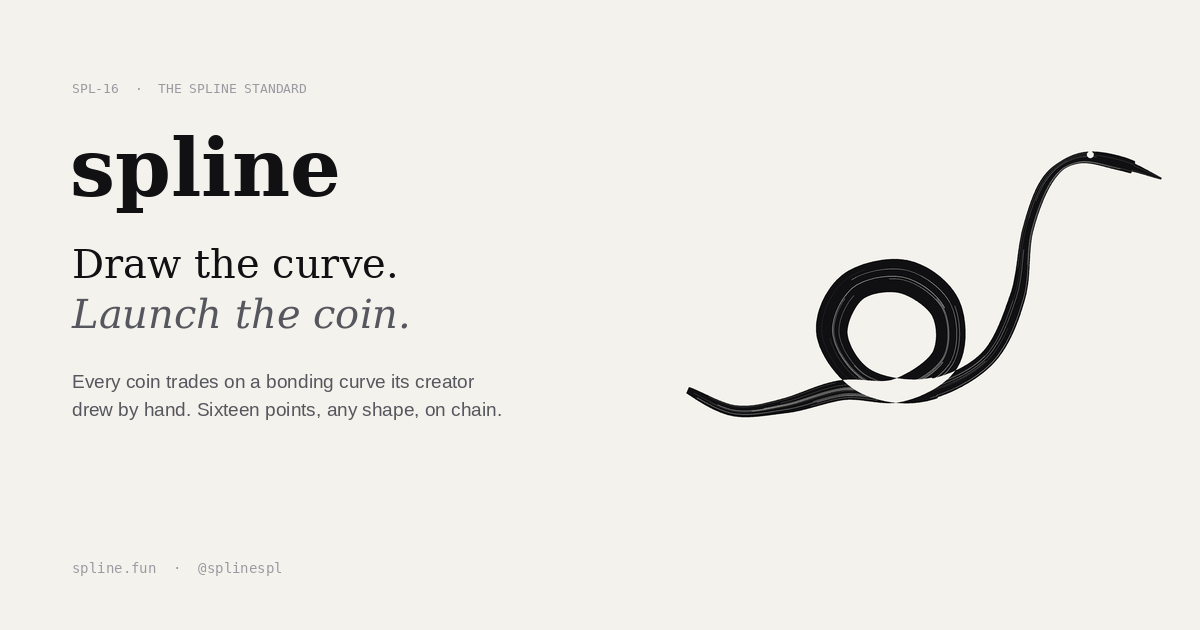
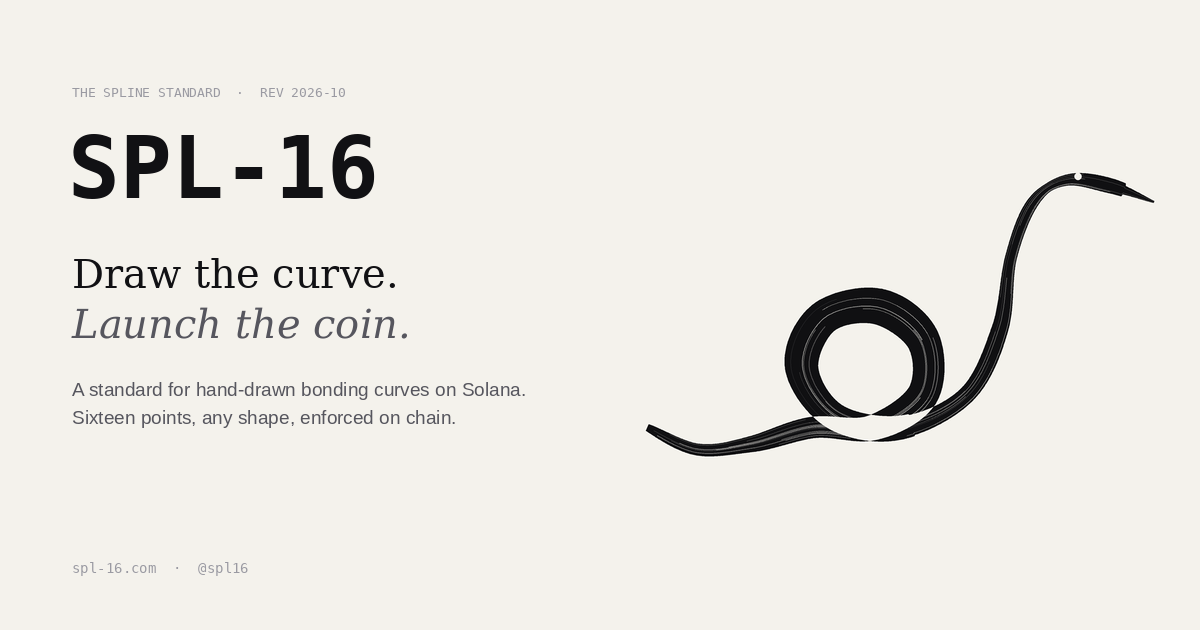
Brand: SPL-16 as the name, spl-16.com, @spl16; mono wordmark; new OG
Claude-Session: https://claude.ai/code/session_01EpuTyT8Z4FY5SazNNXN4oC

diff --git a/public/app.js b/public/app.js
@@ -35,9 +35,9 @@ function home() {
   app.innerHTML = `<div class="wrap">
   <section class="hero">
     <div>
-      <span class="std">SPL-16 · THE SPLINE STANDARD</span>
+      <span class="std">THE SPLINE STANDARD · REV 2026-10</span>
       <h1>Draw the curve.<br><em>Launch the coin.</em></h1>
-      <p>Every coin here trades on a bonding curve its creator drew by hand. Up to sixteen price points, any shape — written into the pool config on Meteora and enforced on chain from the first buy.</p>
+      <p>SPL-16 is a standard for hand-drawn bonding curves. Every coin here trades on a curve its creator drew. Up to sixteen price points, any shape — written into the pool config on Meteora and enforced on chain from the first buy.</p>
       <div class="cta"><a class="btn pri big" href="/lab"><i data-lucide="pen-tool"></i>Draw a coin</a><a class="btn big" href="/standard">Read the standard</a></div>
     </div>
     <div class="art"><svg viewBox="0 0 1000 561"><use href="#swan"/></svg><span class="cap">one line · sixteen points · on chain</span></div>
@@ -238,11 +238,11 @@ function standard() {
   <table><tr><th>field</th><th>value</th></tr><tr><td>total supply</td><td>1,000,000,000 · 6 decimals</td></tr><tr><td>quote</td><td>SOL</td></tr><tr><td>launch mcap (bottom of canvas)</td><td>${S.config.startMcapSol} SOL</td></tr><tr><td>ceiling mcap (top of canvas)</td><td>${S.config.maxMcapSol} SOL</td></tr><tr><td>migration</td><td>Meteora DAMM v2, liquidity permanently locked</td></tr><tr><td>mint authority</td><td>revoked at creation</td></tr><tr><td>metadata update authority</td><td>none — spline does not mutate</td></tr></table>
   <h2>4. Sniper tax (optional)</h2><p>A coin may launch with a buy-fee schedule: <code>${S.config.maxTaxBps / 100}%</code> at creation decaying to <code>1%</code> over <code>${S.config.taxSeconds}</code> seconds, using the DBC exponential fee scheduler. The decay shape is chosen by the creator. Fees collected are split between the creator and spline per the config and can only decrease over time — the scheduler cannot raise a fee.</p>
   <h2>5. Fees</h2><p>Trading fees on every curve are collected in SOL. The creator receives 50% of fees as the pool creator; spline receives 50% as the config partner. Both claim directly from the pool; spline never holds creator funds.</p>
-  <h2>6. Identity</h2><p>An SPL-16 token's image is its own curve rendered as a single stroke. The sixteen heights are stored in the token's metadata attributes, so any client can redraw the curve from the token alone.</p>
+  <h2>6. Identity</h2><p>An SPL-16 token's image is its own curve rendered as a single stroke. The sixteen heights are stored in the token's metadata attributes, so any client can redraw the curve from the token alone. The reference implementation lives at spl-16.com.</p>
   <h2>7. What this is not</h2><p>It is not a new token program. SPL-16 tokens are ordinary SPL tokens and trade anywhere. It is not a promise about price: the curve fixes what each buyer pays on the way up, not where the market goes after graduation.</p>
   </div>`;
 }
-function notFound() { app.innerHTML = `<div class="wrap"><div class="card empty"><b>Nothing here.</b><a href="/">Back to spline</a></div></div>`; }
+function notFound() { app.innerHTML = `<div class="wrap"><div class="card empty"><b>Nothing here.</b><a href="/">Back to SPL-16</a></div></div>`; }
 
 // ---------- router ----------
 async function render() {

diff --git a/public/index.html b/public/index.html
@@ -3,13 +3,13 @@
 <head>
 <meta charset="utf-8" />
 <meta name="viewport" content="width=device-width, initial-scale=1" />
-<title>spline — draw the curve, launch the coin</title>
+<title>SPL-16 — draw the curve, launch the coin</title>
 <meta name="description" content="SPL-16, the Spline Standard. Hand-drawn bonding curves on Solana: draw up to 16 price points and launch a coin that trades on exactly that shape." />
-<meta property="og:title" content="spline · SPL-16" />
+<meta property="og:title" content="SPL-16 · the Spline Standard" />
 <meta property="og:description" content="Draw the curve. Launch the coin. A new standard for hand-drawn bonding curves on Solana." />
 <meta property="og:image" content="/og.png" />
 <meta name="twitter:card" content="summary_large_image" />
-<meta name="twitter:site" content="@splinespl" />
+<meta name="twitter:site" content="@spl16" />
 <link rel="icon" type="image/png" sizes="64x64" href="/favicon.png" />
 <link rel="icon" type="image/png" sizes="192x192" href="/icon-192.png" />
 <link rel="apple-touch-icon" href="/icon-192.png" />
@@ -19,19 +19,19 @@
 </head>
 <body>
 <header class="top">
-  <a class="wm" href="/"><span class="mark" id="mark"></span>spline</a>
+  <a class="wm" href="/"><span class="mark" id="mark"></span>SPL-16</a>
   <nav class="nav"><a href="/coins" data-r="/coins"><i data-lucide="coins"></i>Coins</a><a href="/lab" data-r="/lab"><i data-lucide="pen-tool"></i>Lab</a><a href="/standard" data-r="/standard"><i data-lucide="file-badge"></i>Standard</a></nav>
   <div class="r">
-    <span class="std">SPL-16</span>
-    <a class="xl" id="xlink" href="https://x.com/splinespl" target="_blank" rel="noreferrer">@splinespl</a>
+    <span class="std">SPLINE STANDARD</span>
+    <a class="xl" id="xlink" href="https://x.com/spl16" target="_blank" rel="noreferrer">@spl16</a>
     <button class="btn" id="wallet"><i data-lucide="wallet"></i><span>Connect</span></button>
     <a class="btn pri" href="/lab">Draw a coin</a>
   </div>
 </header>
 <main id="app"></main>
 <footer class="foot">
-  <span>spline · SPL-16 · the Spline Standard · built on Meteora DBC</span>
-  <span><a href="/standard">Standard</a><a href="https://x.com/splinespl" target="_blank" rel="noreferrer">@splinespl</a></span>
+  <span>SPL-16 · the Spline Standard · built on Meteora DBC</span>
+  <span><a href="/standard">Standard</a><a href="https://x.com/spl16" target="_blank" rel="noreferrer">@spl16</a></span>
 </footer>
 <script src="https://unpkg.com/lucide@0.469.0/dist/umd/lucide.min.js"></script>
 <script src="https://unpkg.com/@solana/web3.js@1.98.0/lib/index.iife.min.js"></script>

diff --git a/server.js b/server.js
@@ -24,7 +24,7 @@ const pub = c => c && ({ ...c, points: JSON.parse(c.points), hist: undefined });
 app.get('/api/state', (req, res) => {
   const coins = db.prepare('select * from coins order by created_at desc limit 200').all().map(pub);
   const t = db.prepare('select count(*) coins, coalesce(sum(migrated),0) graduated, coalesce(sum(quote_reserve_sol),0) tvl, coalesce(sum(fees_sol),0) fees from coins').get();
-  res.json({ coins, totals: t, site: site(), x: process.env.X_URL || 'https://x.com/splinespl', ca: process.env.PLATFORM_MINT || null, config: { startMcapSol: C.START_MCAP_SOL, maxMcapSol: C.MAX_MCAP_SOL, taxSeconds: C.TAX_SECONDS, maxTaxBps: C.MAX_FEE_BPS } });
+  res.json({ coins, totals: t, site: site(), x: process.env.X_URL || 'https://x.com/spl16', ca: process.env.PLATFORM_MINT || null, config: { startMcapSol: C.START_MCAP_SOL, maxMcapSol: C.MAX_MCAP_SOL, taxSeconds: C.TAX_SECONDS, maxTaxBps: C.MAX_FEE_BPS } });
 });
 app.get('/api/coin/:mint', (req, res) => {
   const c = db.prepare('select * from coins where mint=?').get(req.params.mint);

diff --git a/public/app.css b/public/app.css
@@ -10,7 +10,7 @@ b,strong{font-weight:600}
 .std{font-family:var(--mono);font-size:11px;letter-spacing:.14em;color:var(--ink3)}
 /* header */
 .top{position:sticky;top:0;z-index:5;height:60px;display:flex;align-items:center;gap:28px;padding:0 32px;background:rgba(251,250,246,.85);backdrop-filter:blur(10px);-webkit-backdrop-filter:blur(10px);border-bottom:1px solid var(--line)}
-.wm{font-family:var(--serif);font-weight:700;font-size:21px;letter-spacing:-.02em;display:flex;align-items:center;gap:10px}
+.wm{font-family:var(--mono);font-weight:500;font-size:17px;letter-spacing:.04em;display:flex;align-items:center;gap:10px}
 .mark{display:inline-block;width:36px;height:20px;color:var(--ink)}
 .mark svg{width:100%;height:100%;display:block}
 .nav{display:flex;gap:22px;font-weight:500;color:var(--ink2);font-size:13.5px}

diff --git a/README.md b/README.md
@@ -1,4 +1,4 @@
-# spline · SPL-16
+# SPL-16 · the Spline Standard
 
 Draw the curve. Launch the coin. Hand-drawn bonding curves on Meteora DBC.
 
